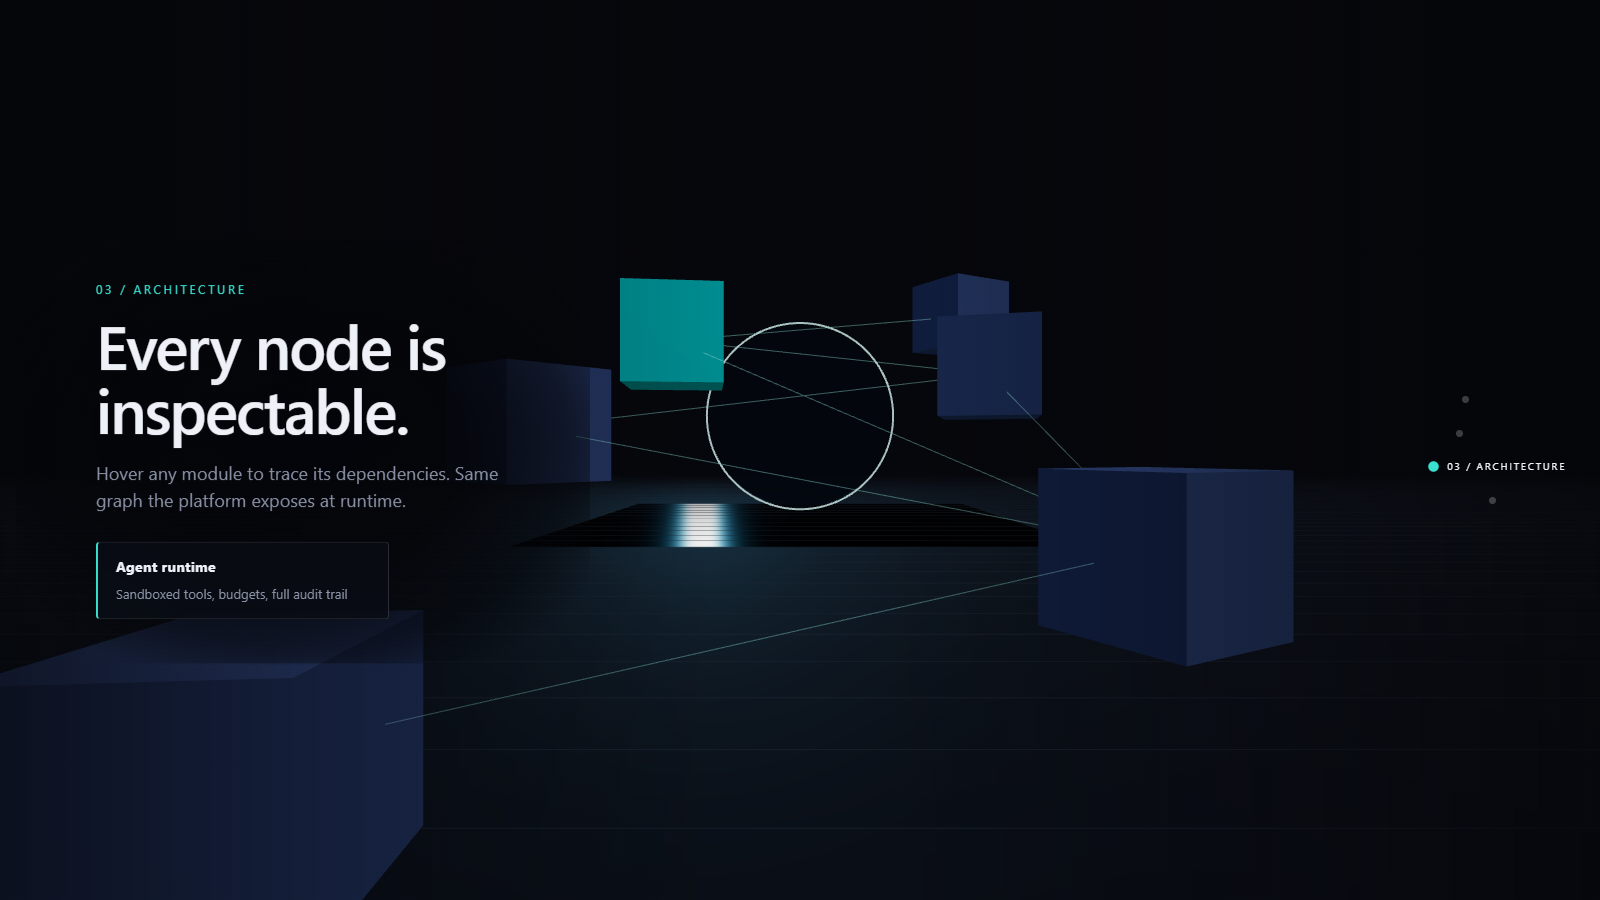
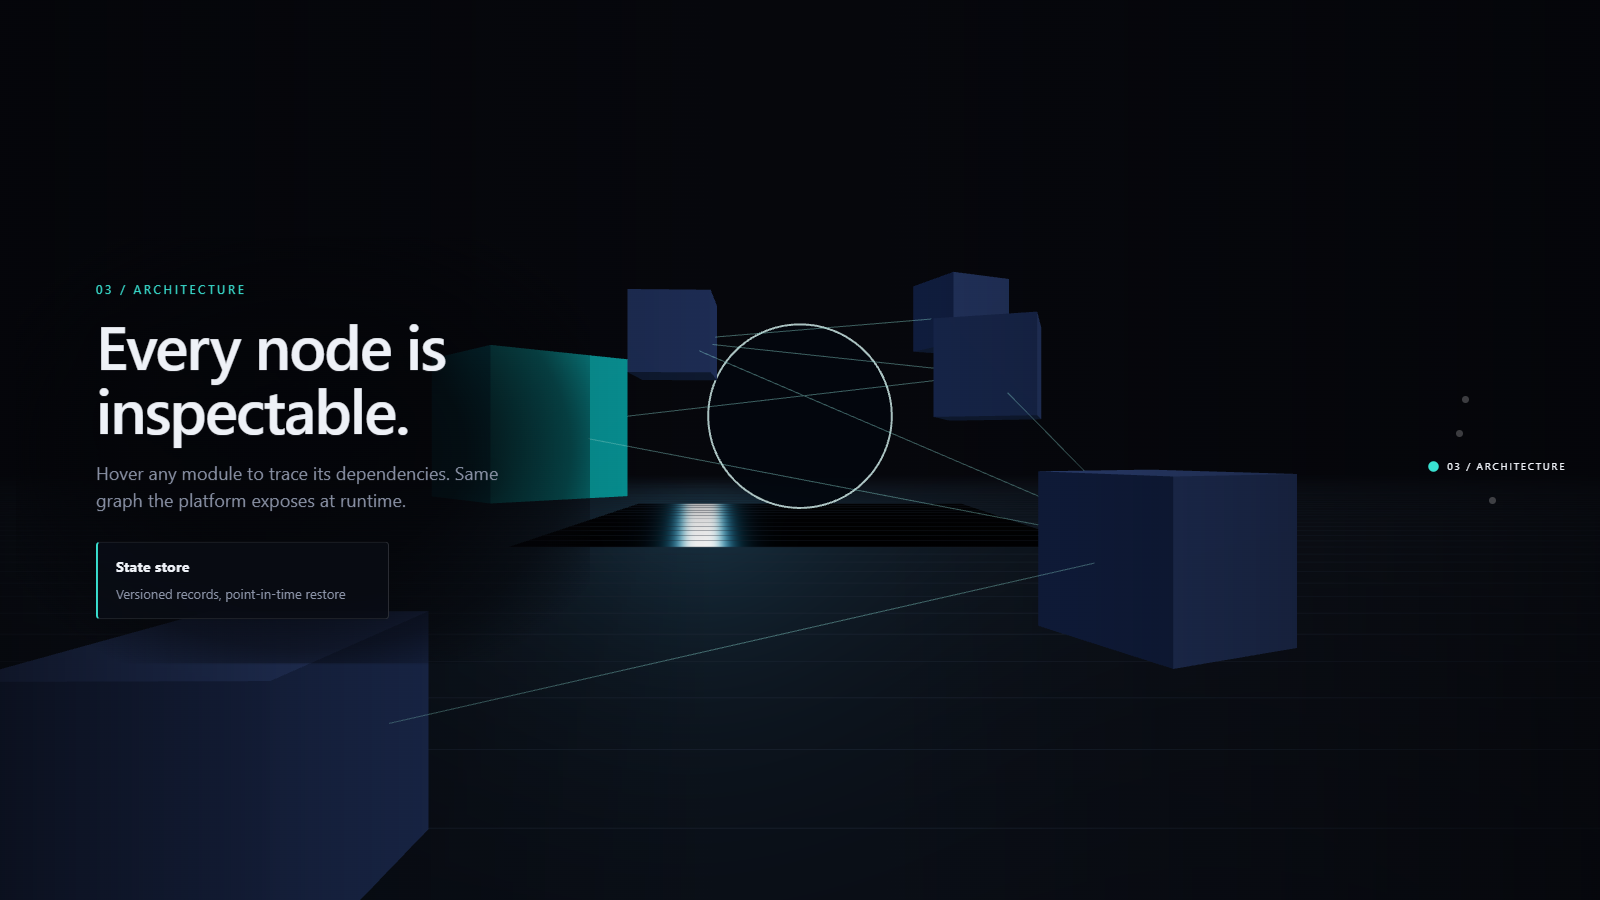
Add scripts/shoot.mjs for generating the README screenshots
The capture script lived outside the repo, so the README images could not be
regenerated after a scene change. Move it in and make it derive its work from
the config rather than a hardcoded list: it iterates config.nodes, names each
file <NN>-<node id>.png, and runs the pointer sweep only for nodes marked
interactive. Adding a fifth node now adds a fifth screenshot with no edit.

Screenshots renamed from eyebrow-derived names to node ids to match.

playwright joins devDependencies for this script alone. Its postinstall pulls
~150MB of browsers, which the deploy has no use for, so the workflow sets
PLAYWRIGHT_SKIP_BROWSER_DOWNLOAD=1 and CI installs only the JS package.

diff --git a/README.md b/README.md
@@ -5,7 +5,7 @@ nodes on desktop; a fixed isometric viewport with horizontal section snapping un
 
 **[Live demo →](https://sw7rvy.github.io/scroll-world/)**
 
-![Node 1, exterior entry](docs/01-exterior.png)
+![Node 1, exterior entry](docs/01-entry.png)
 
 ```bash
 npm install
@@ -19,7 +19,7 @@ One camera, no cuts. Scroll moves it along a single spline through all four.
 
 **02 — Platform.** The camera drops over a diorama of the four services on one runtime.
 
-![Node 2, platform diorama](docs/02-platform.png)
+![Node 2, platform diorama](docs/02-diorama.png)
 
 **03 — Architecture.** The camera flies into the module graph. Hovering any module raycasts against
 the `InstancedMesh` and traces its dependencies.
@@ -118,6 +118,33 @@ the page degrades to a plain snapping card deck rather than a blank canvas.
 On desktop, `window.scrollWorld` exposes `{ engine, trajectory, seekNode(i), preview(p), release() }`.
 `preview(0.42)` pins the camera at a progress value while art-directing a beat; `release()` hands
 control back to scroll.
+
+## Screenshots
+
+The README images are generated, not hand-captured. `scripts/shoot.mjs` drives Playwright through
+`window.scrollWorld.preview()`, parks the camera at each node's pose, and writes
+`docs/<NN>-<node id>.png`. It reads the node list from `scroll-world.config.js`, so adding a fifth
+node adds a fifth screenshot with no edit here.
+
+```bash
+npx playwright install chromium   # once
+npm run shoot                     # shoots the live site
+SHOT_URL=http://localhost:5183/ npm run shoot   # or a local preview build
+```
+
+| Variable | Default | Notes |
+| --- | --- | --- |
+| `SHOT_URL` | the live Pages URL | Any origin serving the built app |
+| `SHOT_OUT` | `docs/` | Output directory |
+| `SHOT_WIDTH` / `SHOT_HEIGHT` | `1600` / `900` | Width must exceed `config.breakpoint`, or the page mounts the mobile fallback and the hook is absent |
+| `SHOT_GPU` | unset | `1` runs headed on the real GPU; leave unset for headless SwiftShader, which renders the ground grid slightly flatter |
+
+Nodes marked `interactive` get a pointer sweep first, so node 3 is captured with a module hovered
+and its probe card open. If the module layout moves far enough that the sweep misses, the script
+warns and still shoots.
+
+`playwright` is a devDependency for this script alone. The deploy workflow sets
+`PLAYWRIGHT_SKIP_BROWSER_DOWNLOAD=1` so CI installs the package without its ~150MB of browsers.
 
 ## Deploy
 
